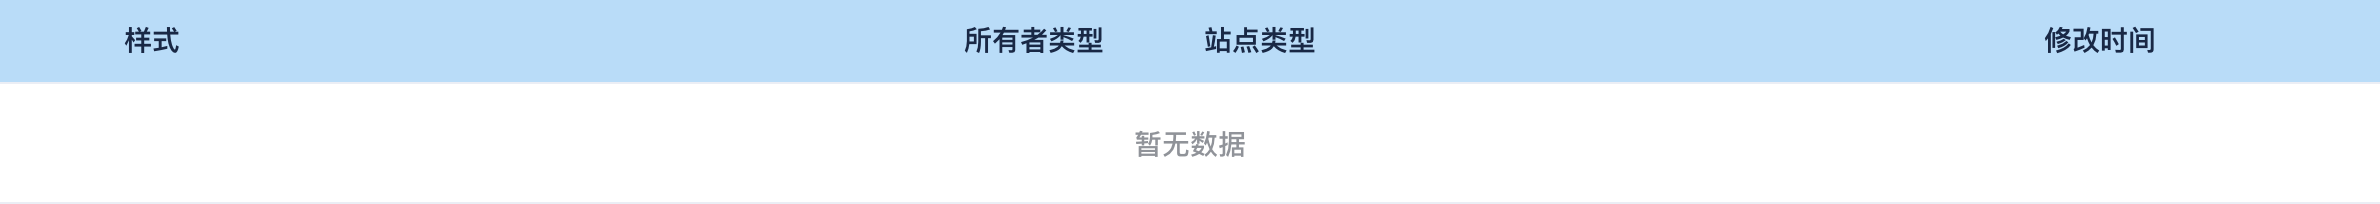
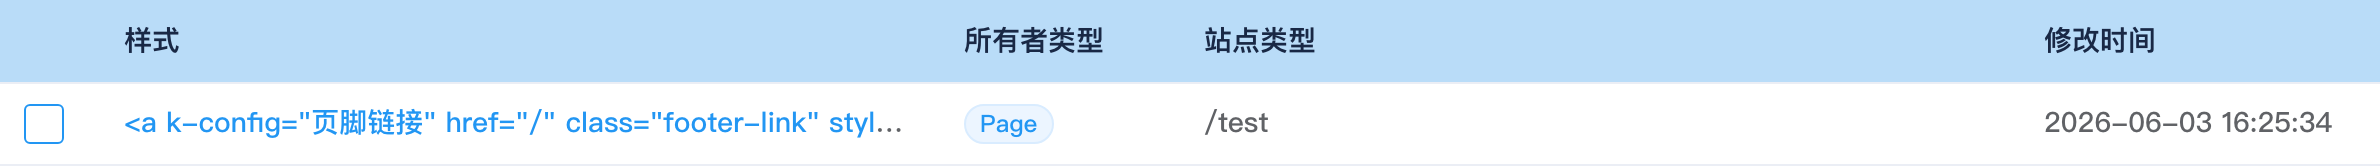
docs(cms): 补充行内样式列表与编辑弹窗配图
在站点已有行内样式数据后截取弹窗图，并增加 styles-inline 专用截图范围。

diff --git a/docs/cms/development/styles.md b/docs/cms/development/styles.md
@@ -6,7 +6,7 @@
 管理站点 **CSS** 资源：独立 `.css` 文件（外部）、页面/布局等 **内嵌样式**、设计器产生的 **行内样式规则**，以及合并多条外部样式的 **样式组**。引用方式见 [Style 模板引擎](/templateEngine/css/)。
 
 ::: tip 权限
-列表与编辑：`style`（查看 / `edit` / `delete`）。页签栏 **设置**（站点级压缩、UnoCSS、按媒体拆分等）需 `site` · `edit`。行末 **版本** 需 `site` · `log`。
+列表与编辑：`style`（查看 / `edit` / `delete`）。页签栏 **设置**（站点级压缩、UnoCSS、按媒体拆分等）需 `site · edit`。行末 **版本** 需 `site· log`。
 :::
 
 ## 如何打开
@@ -104,7 +104,9 @@
 | **+** | 新增一条声明 |
 | 删除 | 移除当前行 |
 
-确认后写回该规则并刷新列表。（站点尚无行内规则时列表为空，有数据后点 **样式** 列名称即可打开弹窗。）
+确认后写回该规则并刷新列表。
+
+<DocImage src="/cms/development/styles-inline-dialog.png" alt="行内样式编辑弹窗" width="1120" />
 
 ## 样式群组页签
 
